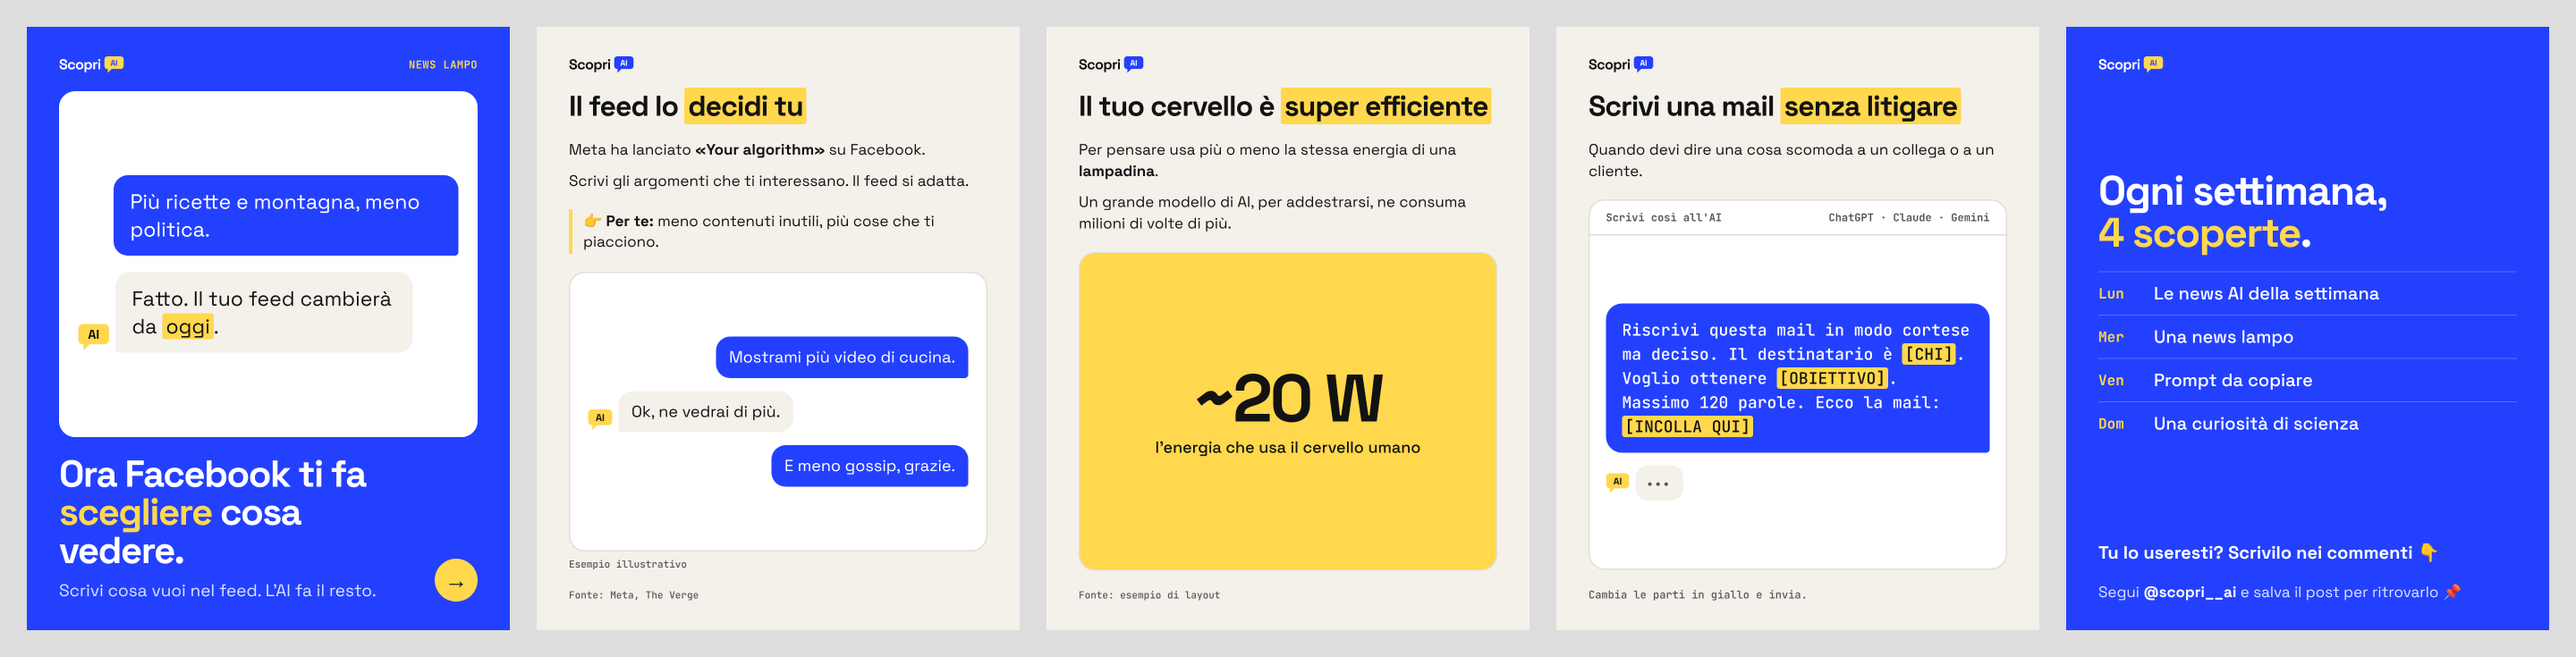
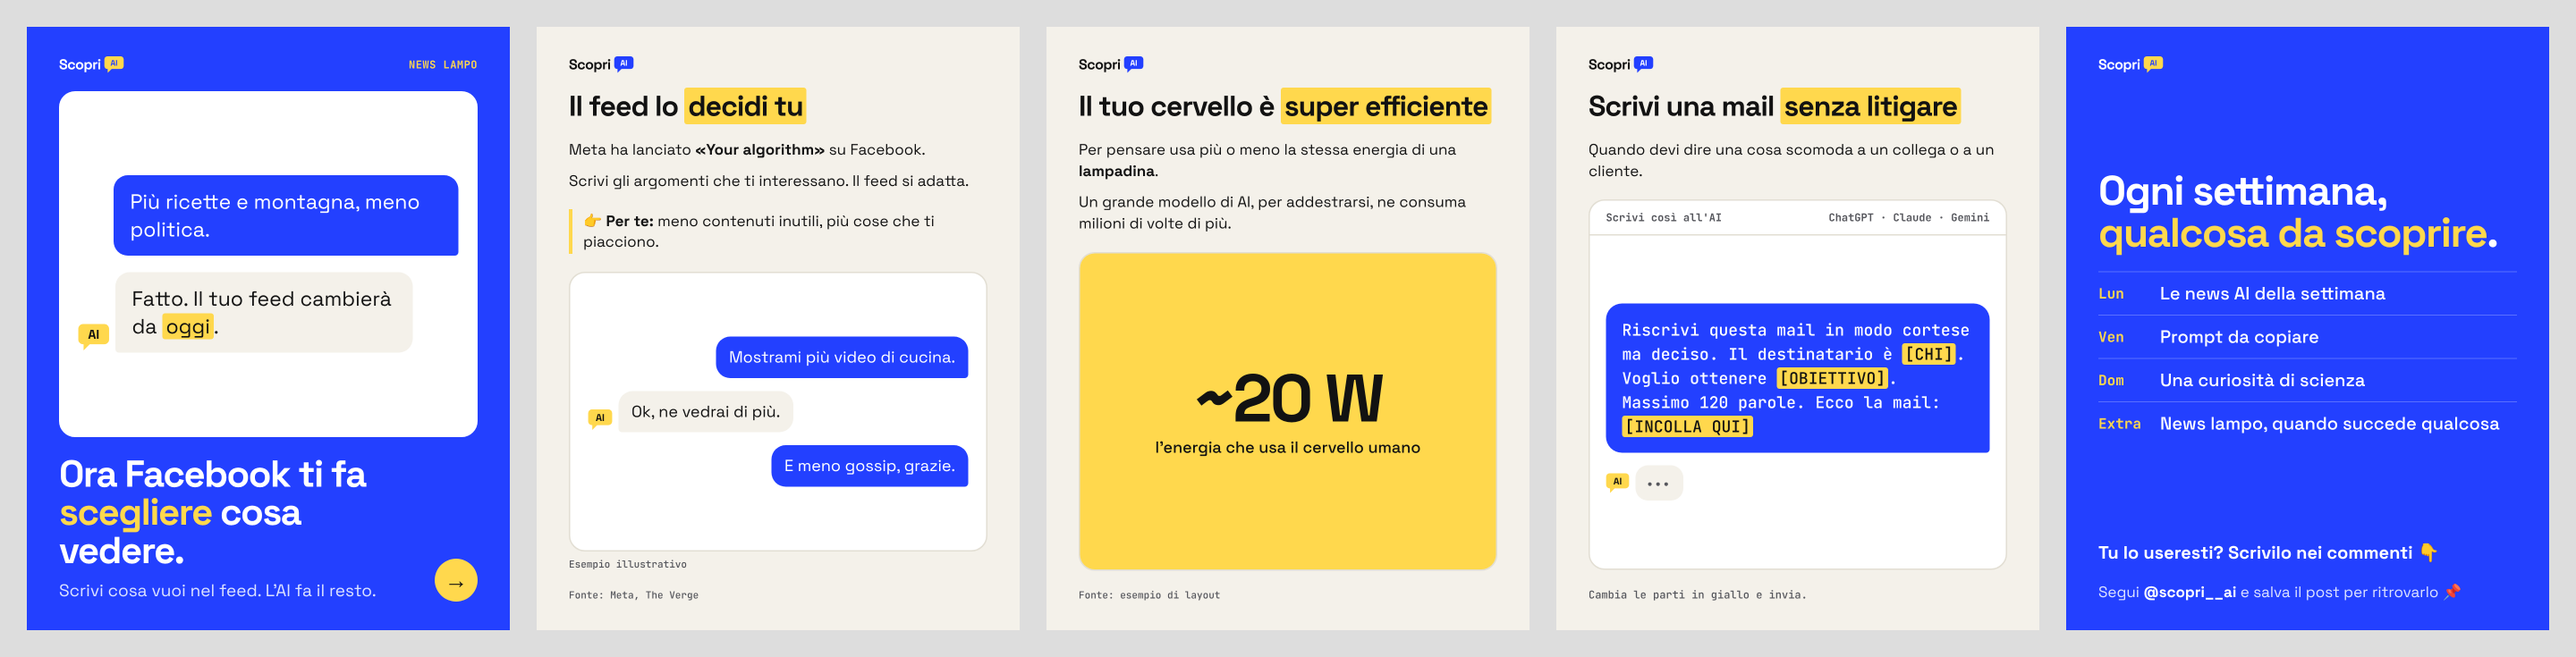
Calendario: 3 post fissi (lun, ven, dom) e news lampo solo quando merita
La ricerca delle notizie è quotidiana; la news lampo si pubblica solo con
voto 4-5 e approvazione del proprietario. Aggiornata l'ultima slide.

Claude-Session: https://claude.ai/code/session_019H5Pu8TypjbkqM7ouaCfUg

diff --git a/strumenti/carosello.py b/strumenti/carosello.py
@@ -171,18 +171,18 @@ font-size:{s.get("dimensione_prompt", 36)}px;font-weight:500;line-height:1.5">{s
 def slide_chiusura(s, ctx):
     rubriche = s.get("rubriche", [
         ["Lun", "Le news AI della settimana"],
-        ["Mer", "Una news lampo"],
         ["Ven", "Prompt da copiare"],
         ["Dom", "Una curiosità di scienza"],
+        ["Extra", "News lampo, quando succede qualcosa"],
     ])
     righe = "".join(
         f'<div style="display:flex;gap:28px;align-items:center;padding:22px 0;border-top:2px solid rgba(255,255,255,.25)">'
-        f'<span class="mono" style="flex:none;width:96px;color:{GIALLO};font-size:32px">{html.escape(g)}</span>'
+        f'<span class="mono" style="flex:none;width:110px;color:{GIALLO};font-size:32px">{html.escape(g)}</span>'
         f'<span style="font-size:40px;font-weight:500">{html.escape(t)}</span></div>' for g, t in rubriche)
     domanda = f'<div style="font-size:40px;font-weight:700;line-height:1.3">{evidenzia(s["domanda"], "blu")}</div>' if s.get("domanda") else ""
     return ("blu", f'''{logo("blu")}
 <div style="flex:1;display:flex;flex-direction:column;justify-content:center;gap:40px">
-<div style="font-size:{s.get("dimensione", 92)}px;font-weight:700;line-height:1.02;letter-spacing:-3px">{evidenzia(s.get("titolo", "Ogni settimana, *4\u00a0scoperte*."), "blu")}</div>
+<div style="font-size:{s.get("dimensione", 92)}px;font-weight:700;line-height:1.02;letter-spacing:-3px">{evidenzia(s.get("titolo", "Ogni settimana, *qualcosa da\u00a0scoprire*."), "blu")}</div>
 <div>{righe}</div>
 </div>
 {domanda}

diff --git a/format/2-news-lampo.md b/format/2-news-lampo.md
@@ -1,22 +1,28 @@
 # Rubrica 2 — "News AI lampo"
 
 **Slide:** 3–5. Una sola notizia, uscita da poco, raccontata bene.
+**Quando:** nessun giorno fisso. Si pubblica solo se c'è una notizia davvero interessante (deciso il 14/10/2026).
 
-## Come si sceglie (il proprietario decide)
-1. Claude cerca le novità di tech e AI delle ultime 24–72 ore (qualunque tema, purché ci sia dentro un minimo di tech) e ne propone **5**, ognuna con:
-   - titolo in una riga;
-   - perché interessa a una persona normale (1 frase);
+## Ricerca di ogni giorno
+1. Ogni mattina Claude controlla le fonti di `fonti.md`: TLDR, The Rundown AI, sale stampa, testate, Reddit.
+2. Tiene solo le notizie di tech e AI delle ultime 24–48 ore che interessano o incuriosiscono una persona normale. Per ognuna scrive:
+   - il titolo in una riga;
+   - perché interessa (1 frase);
    - le 2 fonti che la confermano;
-   - un voto di "interesse" da 1 a 5, secondo Claude.
-   Tra le 5 può esserci una storia virale da X o Reddit, se rispetta le regole di `fonti.md`.
-2. Il proprietario ne sceglie **1**.
-3. Claude prepara il carosello e la caption su quella.
+   - un voto da 1 a 5.
+   Può essere anche una storia virale da X o Reddit, se rispetta le regole di `fonti.md`.
+3. **Voto 4 o 5:** Claude la propone al proprietario, che decide se pubblicarla. Se sì, Claude prepara carosello e caption.
+4. **Voto 1–3, o nessuna notizia:** non si pubblica niente. Le notizie migliori finiscono nella lista per le news del lunedì.
 
-Se nelle ultime 72 ore non ci sono notizie forti e verificate, si dice chiaramente e si propone una curiosità scientifica al suo posto (rubrica 4).
+Regole:
+- al massimo **una news lampo al giorno**;
+- orario consigliato **12:30**, oppure appena è pronta se la notizia è caldissima;
+- almeno 3 ore di distanza da un altro post;
+- la domenica sera e il lunedì mattina meglio di no: ci sono le rubriche fisse.
 
 ## Struttura delle slide
-1. **Copertina** (fondo blu) — titolo-gancio di una riga e mezza, con la parola chiave in giallo. Etichetta in alto: `NEWS LAMPO`.
-2. **Cos'è successo** (fondo carta) — 2–4 righe semplici + screenshot ufficiale del prodotto, se c'è. Fonte in basso.
+1. **Copertina** (fondo blu) — titolo-gancio di una riga e mezza, con la parola chiave in giallo. Scritta piccola in alto: `NEWS LAMPO`. Sopra, la foto o il video veri della notizia.
+2. **Cos'è successo** (fondo carta) — 2–4 righe semplici + foto, video o screenshot veri. Fonte in basso.
 3. **Cosa cambia per te** (fondo carta) — 2–3 punti concreti. Fonte in basso.
 4. *(facoltativa)* **Come provarlo** — 3 passaggi, se si può già usare.
 5. **Chiusura** (fondo blu) — domanda per i commenti + "Segui @scopri__ai".

diff --git a/calendario.md b/calendario.md
@@ -1,15 +1,28 @@
-# Calendario (proposta del 14/10/2026, basata su `ispirazione/orari-concorrenti.md`)
+# Calendario (deciso il 14/10/2026)
 
-**4 post a settimana**, uno per rubrica. Il proprietario pubblica a mano all'orario indicato.
+**3 post fissi a settimana**, più le news lampo quando c'è una notizia che merita.
+Il proprietario pubblica a mano all'orario indicato.
 
+## Post fissi
 | Giorno | Ora | Rubrica | Perché quel momento | Materiale pronto |
 |---|---|---|---|---|
-| **Lunedì** | 08:00 | Le news AI della settimana che ti sei perso | Inizio settimana; il mattino presto rende per le notizie; di lunedì le pagine di news AI sono poco presenti | Domenica sera |
-| **Mercoledì** | 12:30 | News AI lampo | Pausa pranzo; a metà settimana le novità sono fresche | Alle 08:00 Claude propone 5 notizie, il proprietario ne sceglie 1, carosello pronto entro le 11:30 |
+| **Lunedì** | 08:00 | Le news AI della settimana che ti sei perso | Il mattino presto rende per le notizie; di lunedì le pagine di news AI sono poco presenti | Domenica sera |
 | **Venerdì** | 15:30 | Prompt efficaci | Il picco più alto di ai__facile è un post "utile" del venerdì pomeriggio; si salvano per il weekend | Venerdì mattina |
 | **Domenica** | 21:00 | Curiosità scientifiche | Le 21:00 sono la fascia migliore di brainfood.it, soprattutto per la scienza | Domenica pomeriggio |
 
-**Sabato:** riposo.
+## News lampo: quando serve
+- Claude cerca le notizie **ogni giorno** e propone solo quelle davvero interessanti (voto 4–5 su 5).
+- Il proprietario decide se pubblicarle. Orario consigliato 12:30, al massimo una al giorno.
+- Le notizie non pubblicate come lampo finiscono nelle news del lunedì.
+- Regole complete: `format/2-news-lampo.md`.
+
+**Sabato:** niente post fissi (una news lampo solo se è eccezionale).
 **Reel (quando pronti):** martedì alle 20:00, la fascia dei reel migliori di ai__facile.
+
+## Partenza
+- Venerdì 16/10, 15:30: prompt efficaci.
+- Domenica 18/10, 21:00: curiosità scientifica.
+- Lunedì 19/10, 08:00: le news della settimana.
+- Prima di venerdì, una news lampo se nei prossimi giorni esce una notizia da 4–5.
 
 > Da verificare dopo 2–3 settimane con le statistiche di Instagram: il pubblico di una pagina nuova può comportarsi diversamente da quello dei concorrenti.

diff --git a/brand/identita.md b/brand/identita.md
@@ -51,7 +51,7 @@ Si genera con `strumenti/carosello.py`; esempio in `brand/template-esempio/`.
 - **Copertina (blu):** visual grande in alto (screenshot del prodotto o chat disegnata), titolo sotto con le parole chiave in giallo, pallino giallo con → come unico invito a scorrere.
 - **Slide interne (carta):** testo sopra (35-55 parole), visual sotto in un riquadro arrotondato: screenshot, chat o numero grande su giallo. "👉 Per te" con filetto giallo. Fonte in piccolo in fondo.
 - **Prompt:** il prompt è un messaggio blu in una finestra di chat ("Scrivi così all'AI"), con le parti da cambiare in giallo.
-- **Ultima slide (blu):** l'appuntamento della settimana (Lun, Mer, Ven, Dom) + domanda per i commenti + "Segui e salva".
+- **Ultima slide (blu):** gli appuntamenti fissi (Lun, Ven, Dom) più le news lampo + domanda per i commenti + "Segui e salva".
 - Se si parla di una persona o di una cosa reale, il visual è la foto o il video veri (regola 4 di `CLAUDE.md`), con il credito in piccolo ("Foto: Meta"). La chat disegnata resta per i prompt da copiare e per i concetti; se non riproducono l'interfaccia vera, sotto va scritto "Esempio illustrativo".
 
 Da evitare perché tipico dei concorrenti: fondo nero con lilla o viola, mascotte robot, collage di CEO.
